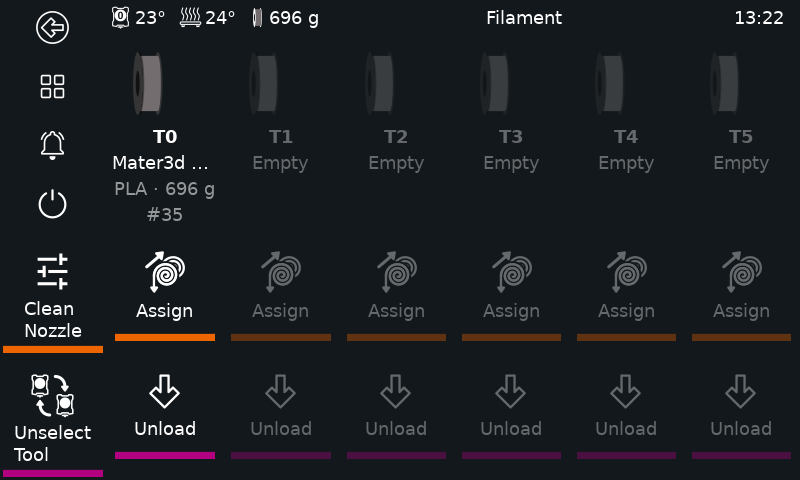
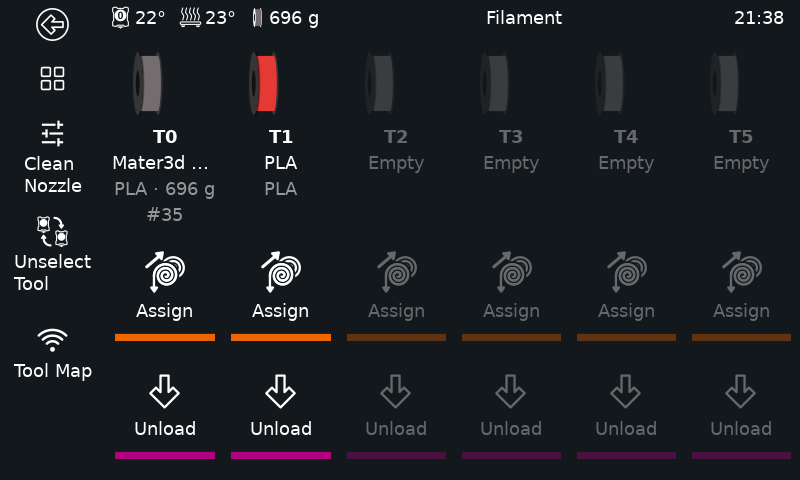
Refresh docs/screenshots, add Tool Map button to Routing page, fix vexpand spacing bug
- README: move screenshots to the top with captions, fix stale "dropdown"
  wording (material picker is now a tap-to-select list), document Map/Failover
  and Tool Map features that were never mentioned.
- docs/screenshots/*.png: retaken live on voron300, replacing 3-day-stale
  captures that predated the sidebar declutter and Manual Assign compression.
  Added toolmap.png (previously undocumented).
- filament_lanes_routing.py: add the shared Tool Map sidebar button, previously
  intentionally omitted pending confirmation - now requested.
- Fixed a real layout bug found while screenshotting: KlipperScreen's own
  KlippyGtk.Button() helper unconditionally sets vexpand=True on every button
  it creates, which GTK3 propagates up through any non-homogeneous Box
  regardless of pack-time expand flags, producing large unexplained gaps.
  Added explicit set_vexpand(False) to the affected buttons in
  filament_lanes_manual.py, filament_lanes_spoolman.py, and
  filament_lanes_routing.py.

diff --git a/src/screen/filament_lanes_routing.py b/src/screen/filament_lanes_routing.py
@@ -6,7 +6,7 @@ import logging
 from panels.base_panel import ScreenPanel
 from panels.tool_routing import detect_tool_count, fetch_toolmap_state, apply_toolmap
 from panels.touch_picker import pick_from_list
-from panels.sidebar_declutter import hide_extra_icons, show_extra_icons
+from panels.sidebar_declutter import hide_extra_icons, show_extra_icons, add_toolmap_button
 
 logger = logging.getLogger("KlipperScreen")
 
@@ -31,6 +31,7 @@ class Panel(ScreenPanel):
 
         self.lane = lane
         self.tool_count = tool_count or detect_tool_count(self)
+        self._toolmap_btn = None
 
         self._build_ui()
         GLib.idle_add(self._fetch_state)
@@ -41,9 +42,12 @@ class Panel(ScreenPanel):
 
     def activate(self):
         hide_extra_icons(self._screen)
+        self._toolmap_btn = add_toolmap_button(self._screen)
 
     def deactivate(self):
         show_extra_icons(self._screen)
+        self._screen.base_panel.action_bar.remove(self._toolmap_btn)
+        self._toolmap_btn = None
 
     # ------------------------------------------------------------------ #
     # UI construction                                                      #
@@ -96,6 +100,7 @@ class Panel(ScreenPanel):
         root.pack_start(self._backup_btn, True, True, 0)
 
         apply_btn = self._gtk.Button("complete", _("Apply"), "color1")
+        apply_btn.set_vexpand(False)
         apply_btn.connect("clicked", self._on_apply)
         root.pack_start(apply_btn, False, False, 0)
 

diff --git a/src/screen/filament_lanes_manual.py b/src/screen/filament_lanes_manual.py
@@ -155,6 +155,7 @@ class Panel(ScreenPanel):
         custom_row.pack_start(self._color_preview, False, False, 0)
 
         custom_btn = self._gtk.Button("color1", _("Custom…"), "color2")
+        custom_btn.set_vexpand(False)
         custom_btn.get_style_context().add_class("compact-btn")
         custom_btn.connect("clicked", self._on_custom_color_clicked)
         custom_row.pack_start(custom_btn, False, False, 0)
@@ -169,18 +170,21 @@ class Panel(ScreenPanel):
 
         route_btn = self._gtk.Button("toolchanger", _("Map / Failover"), "color3")
         route_btn.set_size_request(-1, 34)
+        route_btn.set_vexpand(False)
         route_btn.get_style_context().add_class("compact-btn")
         route_btn.connect("clicked", self._on_routing_clicked)
         action_box.pack_start(route_btn, True, True, 0)
 
         clear_btn = self._gtk.Button("cancel", _("Clear"), "color2")
         clear_btn.set_size_request(-1, 34)
+        clear_btn.set_vexpand(False)
         clear_btn.get_style_context().add_class("compact-btn")
         clear_btn.connect("clicked", self._on_clear)
         action_box.pack_start(clear_btn, True, True, 0)
 
         save_btn = self._gtk.Button("complete", _("Save"), "color1")
         save_btn.set_size_request(-1, 34)
+        save_btn.set_vexpand(False)
         save_btn.get_style_context().add_class("compact-btn")
         save_btn.connect("clicked", self._on_save)
         action_box.pack_start(save_btn, True, True, 0)

diff --git a/src/screen/filament_lanes_spoolman.py b/src/screen/filament_lanes_spoolman.py
@@ -76,11 +76,13 @@ class Panel(ScreenPanel):
 
         clear_btn = self._gtk.Button("cancel", _("Clear"), "color2")
         clear_btn.set_size_request(-1, 34)
+        clear_btn.set_vexpand(False)
         clear_btn.connect("clicked", self._on_clear)
         left.pack_start(clear_btn, False, False, 0)
 
         route_btn = self._gtk.Button("toolchanger", _("Map / Failover"), "color3")
         route_btn.set_size_request(-1, 34)
+        route_btn.set_vexpand(False)
         route_btn.connect("clicked", self._on_routing_clicked)
         left.pack_start(route_btn, False, False, 0)
 

diff --git a/README.md b/README.md
@@ -13,6 +13,18 @@ any combination of:
 
 Each component installs independently.
 
+## Screenshots
+
+| Filament Lanes | Manual Assign |
+| --- | --- |
+| ![Filament Lanes](docs/screenshots/filament_lanes.png) | ![Manual Assign](docs/screenshots/manual_assign.png) |
+| Live per-lane status, right from the sidebar | Color/material assignment without Spoolman |
+
+| Tool Routing | Tool Map |
+| --- | --- |
+| ![Tool Routing](docs/screenshots/routing.png) | ![Tool Map](docs/screenshots/toolmap.png) |
+| Per-lane remap/failover target | Every tool's mapping at a glance |
+
 ---
 
 ## Requirements
@@ -81,9 +93,14 @@ else from scratch.
 For KlipperScreen: if Spoolman isn't installed, the panel's "Assign" button
 goes straight to a manual color/material picker instead of a Spoolman browser
 — pick a color from a preset swatch grid (or a custom color picker) and a
-material from a dropdown backed by `src/printer/materials.cfg` (edit that file
-to add more materials). If Spoolman *is* installed, "Assign" offers a choice
-between the two, per lane.
+material from a tap-to-select list backed by `src/printer/materials.cfg` (edit
+that file to add more materials). If Spoolman *is* installed, "Assign" offers a
+choice between the two, per lane.
+
+Every lane also has a **Map / Failover** page for tool remapping (e.g. route
+T1 to T3 if T1 runs out) and backup-tool assignment, plus a **Tool Map**
+overview reachable from the sidebar of any Filament screen, showing every
+tool's current mapping and backup at a glance.
 
 The installer also offers to add a single `[update_manager tool_feeder]` entry
 to `moonraker.conf` covering whichever components you installed, so a `git
